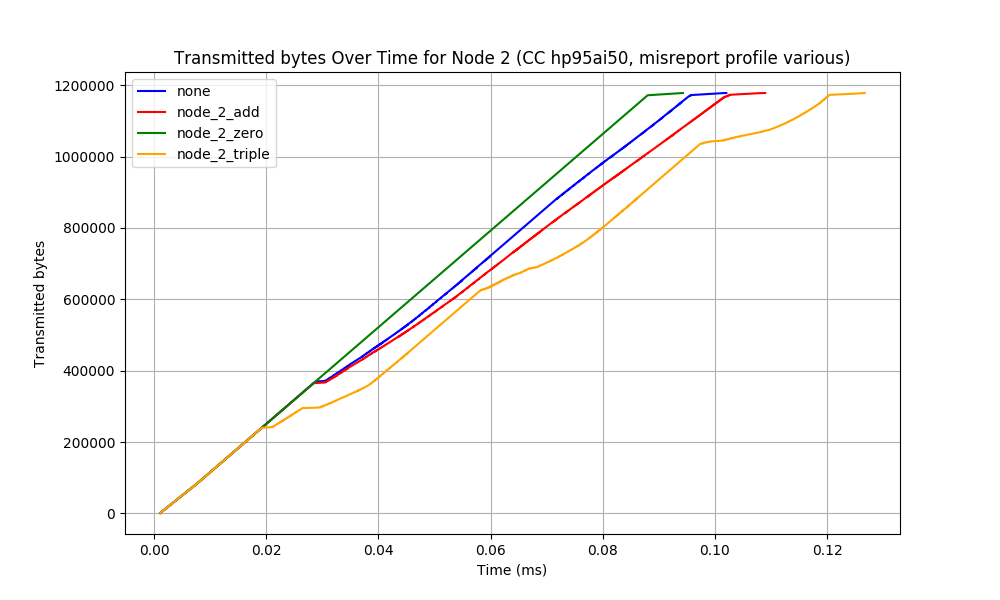
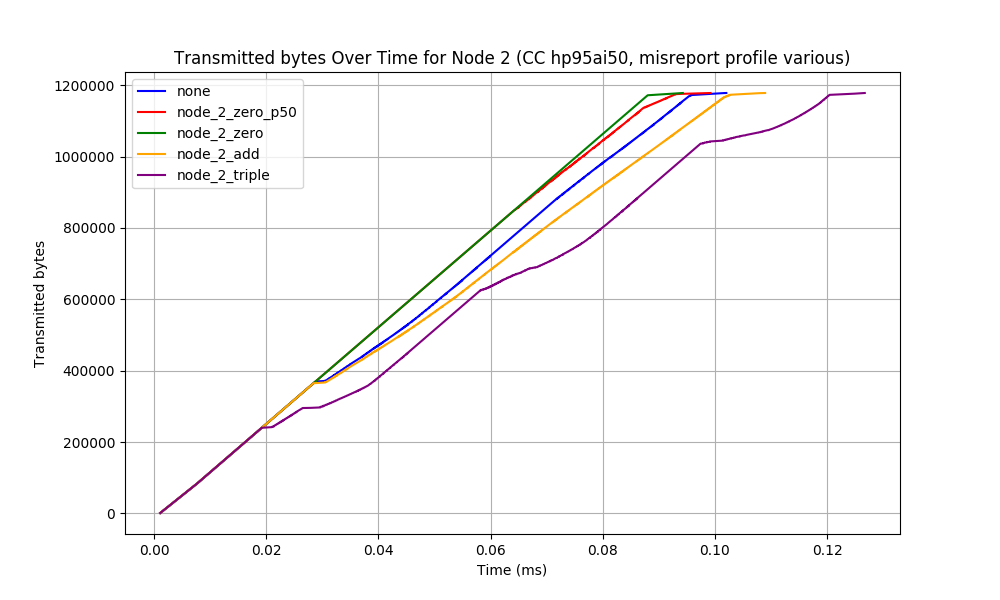
Support probabilistic reporting via configuration

diff --git a/simulation/scratch/third.cc b/simulation/scratch/third.cc
@@ -767,12 +767,18 @@ int main(int argc, char *argv[])
 	misreportf >> misreport_num;
 
 	std::vector<std::string> node_reporting_profile(node_num, "NONE");
+	std::vector<uint32_t> node_reporting_prob_percent(node_num, 100);
 	for (uint32_t i = 0; i < misreport_num; i++)
 	{
 		uint32_t sid;
 		std::string reporting_profile;
+		uint32_t prob_percent;
 		misreportf >> sid >> reporting_profile;
 		node_reporting_profile[sid] = reporting_profile;
+		if (misreportf >> prob_percent) {
+			cout << "non-default prob_percent " << prob_percent << '\n';
+			node_reporting_prob_percent[sid] = prob_percent;
+		}
 	}
 
 	//n.Create(node_num);
@@ -783,6 +789,14 @@ int main(int argc, char *argv[])
 		topof >> sid;
 		node_type[sid] = 1;
 	}
+
+	std::unordered_map<std::string, uint64_t (*)(uint64_t)> reporting_fn_map = {
+		{"TRIPLE", &triple_qlen_mapping},
+		{"ADD", &additive_qlen_mapping},
+		{"ZERO", &zero_qlen_mapping},
+	};
+	
+
 	for (uint32_t i = 0; i < node_num; i++){
 		if (node_type[i] == 0)
 			n.Add(CreateObject<Node>());
@@ -790,15 +804,11 @@ int main(int argc, char *argv[])
 			Ptr<SwitchNode> sw = CreateObject<SwitchNode>();
 			n.Add(sw);
 			sw->SetAttribute("EcnEnabled", BooleanValue(enable_qcn));
-			if (node_reporting_profile[i] == "TRIPLE") {
-				printf("setting node %d reporting function to %s\n", i, node_reporting_profile[i].c_str());
-				sw->SetupQlenReportingFunction(MakeCallback(&triple_qlen_mapping));
-			} else if (node_reporting_profile[i] == "ADD") {
-				printf("setting node %d reporting function to %s\n", i, node_reporting_profile[i].c_str());
-				sw->SetupQlenReportingFunction(MakeCallback(&additive_qlen_mapping));
-			} else if (node_reporting_profile[i] == "ZERO") {
-				printf("setting node %d reporting function to %s\n", i, node_reporting_profile[i].c_str());
-				sw->SetupQlenReportingFunction(MakeCallback(&zero_qlen_mapping));
+			std::string report_profile = node_reporting_profile[i];
+			if (reporting_fn_map.find(report_profile) != reporting_fn_map.end()) {
+				printf("setting node %d reporting function to %s with prob %d\n", i, report_profile.c_str(), node_reporting_prob_percent[i]);
+				sw->SetupQlenReportingFunction(MakeCallback(reporting_fn_map[report_profile]));
+				sw->SetReportingProbPercent(node_reporting_prob_percent[i]);
 			}
 		}
 	}

diff --git a/simulation/src/point-to-point/model/switch-node.cc b/simulation/src/point-to-point/model/switch-node.cc
@@ -65,12 +65,20 @@ SwitchNode::SwitchNode(){
 		m_lastPktSize[i] = m_lastPktTs[i] = 0;
 	for (uint32_t i = 0; i < pCnt; i++)
 		m_u[i] = 0;
+
+	// default reporting probability: 0%
+	m_reportingProbPercent = 0;
 	// default reporting function: identity
 	m_getQlenToReport = MakeCallback(&defaultQlenReporter);
 }
 
 void SwitchNode::SetupQlenReportingFunction(GetQlenToReportFunction getQlenToReport){
 	m_getQlenToReport = getQlenToReport;
+}
+
+void SwitchNode::SetReportingProbPercent(uint32_t prob_percent) {
+	std::cout << "node " << m_id << ": setting m_reportingProbPercent to " << prob_percent << '\n';
+	m_reportingProbPercent = prob_percent;
 }
 
 int SwitchNode::GetOutDev(Ptr<const Packet> p, CustomHeader &ch){
@@ -236,7 +244,11 @@ void SwitchNode::SwitchNotifyDequeue(uint32_t ifIndex, uint32_t qIndex, Ptr<Pack
 			Ptr<QbbNetDevice> dev = DynamicCast<QbbNetDevice>(m_devices[ifIndex]);
 			if (m_ccMode == 3){ // HPCC
 				uint64_t actual_qlen = dev->GetQueue()->GetNBytesTotal();
-				uint64_t qlen_to_report = m_getQlenToReport(actual_qlen);
+				uint64_t qlen_to_report = actual_qlen;
+				// probabilistically misreport
+				if (m_reportingProbPercent > 0 && (rand() % 100 + 1) <= m_reportingProbPercent) {
+					qlen_to_report = m_getQlenToReport(actual_qlen);
+				}
 				ih->PushHop(Simulator::Now().GetTimeStep(), m_txBytes[ifIndex], qlen_to_report, dev->GetDataRate().GetBitRate());
 			}else if (m_ccMode == 10){ // HPCC-PINT
 				uint64_t t = Simulator::Now().GetTimeStep();

diff --git a/simulation/src/point-to-point/model/switch-node.h b/simulation/src/point-to-point/model/switch-node.h
@@ -33,6 +33,8 @@ protected:
 
 	uint32_t m_ackHighPrio; // set high priority for ACK/NACK
 
+	uint32_t m_reportingProbPercent; // probability of applying misreporting function to qLen
+
 private:
 	int GetOutDev(Ptr<const Packet>, CustomHeader &ch);
 	void SendToDev(Ptr<Packet>p, CustomHeader &ch);
@@ -61,6 +63,7 @@ public:
 	typedef Callback<uint64_t, uint64_t> GetQlenToReportFunction;
 	GetQlenToReportFunction m_getQlenToReport;
 	void SetupQlenReportingFunction(GetQlenToReportFunction getQlenToReport);
+	void SetReportingProbPercent(uint32_t prob_percent);
 };
 
 } /* namespace ns3 */
